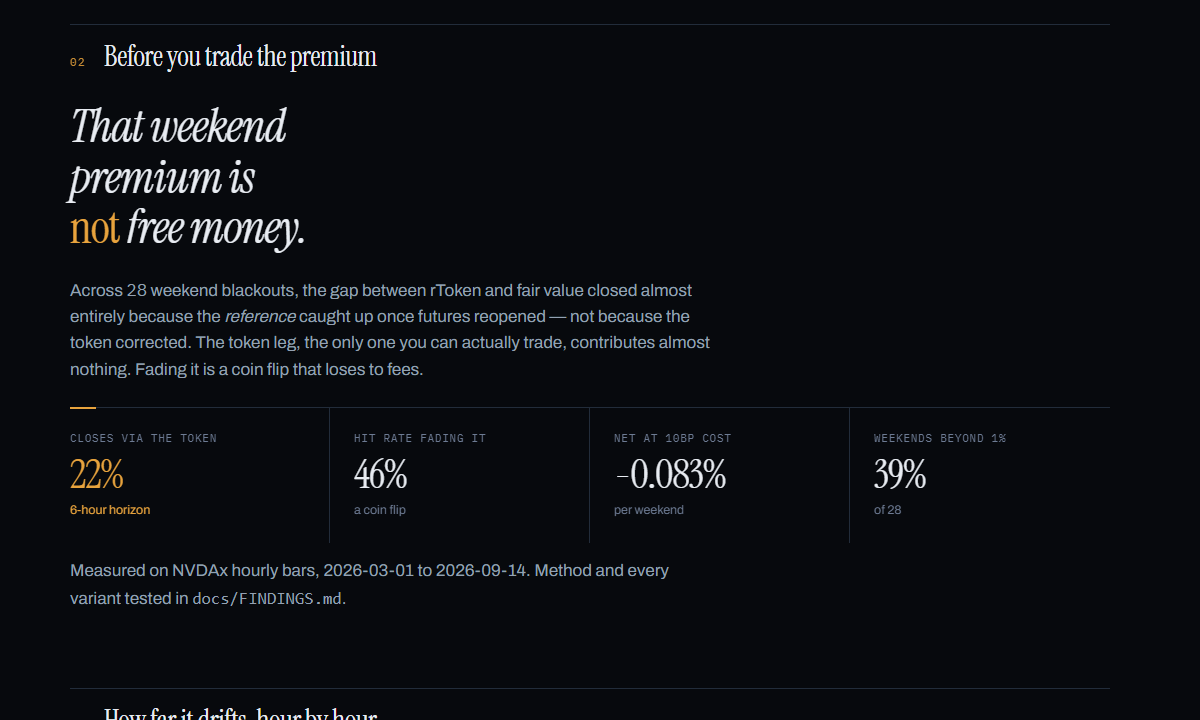
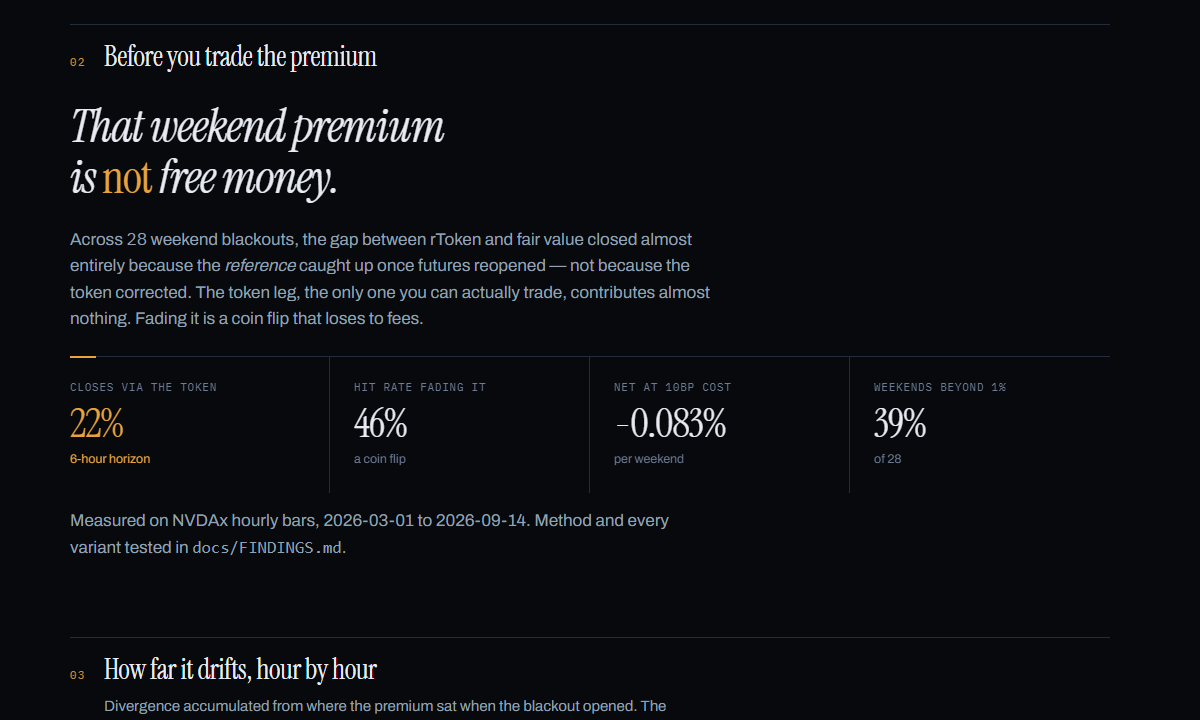
fix: the verdict quote wants two lines, not three
Thirty-nine characters at 17ch took three lines, which turns a pull-quote into
a stack and buries the one sentence the whole product exists to say.

The measure had not been wrong when it was set - the quote was 44px then, and
the typography pass moved it to 46px, which was just enough to tip it. That is
the failure mode of a measure expressed in ch against a size that later
changes, and it is worth knowing: widening to 22ch gives the sentence room for
two lines and lets text-wrap:balance even them rather than leaving a widow.

It now breaks as "That weekend premium / is not free money.", which also puts
the amber "not" at the head of the second line instead of stranded at the start
of a third.

Two lines at desktop and two on a phone, measured rather than eyeballed;
375px scroll width unchanged, so nothing overflows. README screenshots
regenerated, since the committed one still showed three.

diff --git a/public/index.html b/public/index.html
@@ -511,8 +511,13 @@ section{margin-top:var(--s7)}
 /* The one sentence worth remembering, so it is set like a thesis rather than
    like a notification. No card, no border: air does the emphasis. */
 .verdict{padding-block:var(--s3) var(--s1)}
+/* 22ch, not 17. The sentence is 39 characters and wants two lines; at 17 it
+   took three, which turns a pull-quote into a stack. `text-wrap:balance` then
+   evens the two rather than leaving a short widow on the second. The measure
+   moved because the type did - this was sized when the quote was 44px, and 46
+   was enough to tip it over. */
 .verdict h3{font-family:var(--display);font-size:var(--d-xl);font-style:italic;
-  font-weight:400;line-height:1.1;letter-spacing:var(--track-xl);max-width:17ch;
+  font-weight:400;line-height:1.1;letter-spacing:var(--track-xl);max-width:22ch;
   margin-bottom:var(--s5);color:var(--ink)}
 .verdict h3 em{font-style:normal;color:var(--lit)}
 .verdict p{margin:0 0 var(--s5);color:var(--muted);max-width:var(--measure);

diff --git a/web/desk.html b/web/desk.html
@@ -483,8 +483,13 @@ section{margin-top:var(--s7)}
 /* The one sentence worth remembering, so it is set like a thesis rather than
    like a notification. No card, no border: air does the emphasis. */
 .verdict{padding-block:var(--s3) var(--s1)}
+/* 22ch, not 17. The sentence is 39 characters and wants two lines; at 17 it
+   took three, which turns a pull-quote into a stack. `text-wrap:balance` then
+   evens the two rather than leaving a short widow on the second. The measure
+   moved because the type did - this was sized when the quote was 44px, and 46
+   was enough to tip it over. */
 .verdict h3{font-family:var(--display);font-size:var(--d-xl);font-style:italic;
-  font-weight:400;line-height:1.1;letter-spacing:var(--track-xl);max-width:17ch;
+  font-weight:400;line-height:1.1;letter-spacing:var(--track-xl);max-width:22ch;
   margin-bottom:var(--s5);color:var(--ink)}
 .verdict h3 em{font-style:normal;color:var(--lit)}
 .verdict p{margin:0 0 var(--s5);color:var(--muted);max-width:var(--measure);

diff --git a/web/desk.template.html b/web/desk.template.html
@@ -483,8 +483,13 @@ section{margin-top:var(--s7)}
 /* The one sentence worth remembering, so it is set like a thesis rather than
    like a notification. No card, no border: air does the emphasis. */
 .verdict{padding-block:var(--s3) var(--s1)}
+/* 22ch, not 17. The sentence is 39 characters and wants two lines; at 17 it
+   took three, which turns a pull-quote into a stack. `text-wrap:balance` then
+   evens the two rather than leaving a short widow on the second. The measure
+   moved because the type did - this was sized when the quote was 44px, and 46
+   was enough to tip it over. */
 .verdict h3{font-family:var(--display);font-size:var(--d-xl);font-style:italic;
-  font-weight:400;line-height:1.1;letter-spacing:var(--track-xl);max-width:17ch;
+  font-weight:400;line-height:1.1;letter-spacing:var(--track-xl);max-width:22ch;
   margin-bottom:var(--s5);color:var(--ink)}
 .verdict h3 em{font-style:normal;color:var(--lit)}
 .verdict p{margin:0 0 var(--s5);color:var(--muted);max-width:var(--measure);
